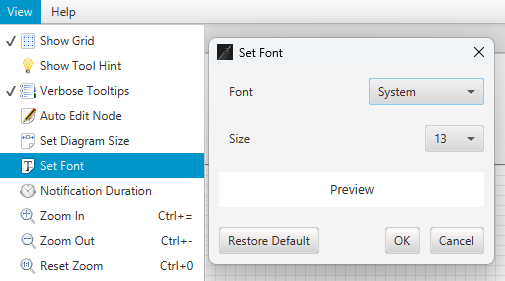
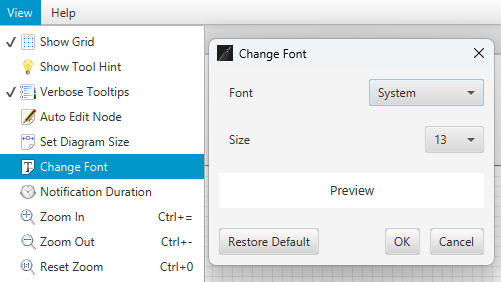
[#531]
Remove unused imports, add javadoc comments, modify tip image and
dialogue.

diff --git a/src/org/jetuml/rendering/FontMetrics.java b/src/org/jetuml/rendering/FontMetrics.java
@@ -23,11 +23,8 @@ package org.jetuml.rendering;
 import org.jetuml.geom.Dimension;
 
 import javafx.geometry.Bounds;
-import javafx.scene.shape.Rectangle;
-import javafx.scene.shape.Shape;
 import javafx.scene.text.Font;
 import javafx.scene.text.Text;
-import javafx.scene.text.TextBoundsType;
 
 /**
  * A utility class to determine various font position metrics
@@ -56,7 +53,8 @@ public class FontMetrics
 {
 	public static final int DEFAULT_FONT_SIZE = 12;
 	public static final String DEFAULT_FONT_NAME = "System";
-	private static final String BLANK = "";
+	private static final String SINGLE_LINED_TEXT = "One";
+	private static final String TWO_LINED_TEXT = "One\nTwo";
 	private Text aTextNode;
 
 	/**
@@ -74,8 +72,8 @@ public class FontMetrics
 
 	/**
 	 * Returns the dimension of a given string.
-	 * For the fonts available in JetUML, the dimension includes the leading space in the height,
-	 * but a tight bound on the width. Note that this behavior is not consistent for all fonts.
+	 * For the fonts supported in JetUML, the dimension includes the leading space in the height.
+	 * However, this behavior is not consistent across all fonts.
 	 * 
 	 * @param pString The string to which the bounds pertain.
 	 * @return The dimension of the string
@@ -86,39 +84,37 @@ public class FontMetrics
 		
 		aTextNode.setText(pString);
 		Bounds bounds = aTextNode.getLayoutBounds();
-		aTextNode.setText(BLANK);
 		return new Dimension((int) Math.round(bounds.getWidth()), (int) Math.round(bounds.getHeight()));
 	}
 	
 	/**
-	 * Returns the height of a string including the leading space.
+	 * Returns the distance between the top and bottom of a single lined text.
 	 * 
 	 * @param pString The string. 
-	 * @return The height of the string.
+	 * @return The height of a single lined text.
 	 * @pre pString != null
 	 */
 	public int getHeight(String pString)
 	{
 		assert pString != null;
 		
-		aTextNode.setText("Thy\nThy");
-		double height1 = aTextNode.getLayoutBounds().getHeight();
-		aTextNode.setText("Thy");
-		double height2 = aTextNode.getLayoutBounds().getHeight();
-		return (int) Math.round(height1 - height2);
+		aTextNode.setText(TWO_LINED_TEXT);
+		double twoLineHeight = aTextNode.getLayoutBounds().getHeight();
+		aTextNode.setText(SINGLE_LINED_TEXT);
+		double singleLineHeight = aTextNode.getLayoutBounds().getHeight();
+		return (int) Math.round(twoLineHeight - singleLineHeight);
 	}
 	
+	/**
+	 * Returns the distance between the top and baseline of a single lined text.
+	 * 
+	 * @param pBold Whether the font is bold.
+	 * @param pItalic whether the font is italic.
+	 * @return the distance above the baseline for a single lined text.
+	 */
 	public int getBaselineOffset()
 	{
+		aTextNode.setText(SINGLE_LINED_TEXT);
 		return (int) Math.round(aTextNode.getBaselineOffset());
-	}
-	
-	public static void main(String[] args)
-	{
-		System.out.println(Font.getFamilies());
-		System.out.println(Font.getFontNames("Arial"));
-		System.out.println(Font.getFontNames());
-		Font f1 = Font.font("Monospaced");
-		System.out.println(f1.getName());
 	}
 } 

diff --git a/src/org/jetuml/rendering/CanvasFont.java b/src/org/jetuml/rendering/CanvasFont.java
@@ -98,29 +98,43 @@ public final class CanvasFont implements IntegerPreferenceChangeHandler, StringP
 
 	/**
 	 * Returns the dimension of a given string.
+	 * 
 	 * @param pString The string to which the bounds pertain.
 	 * @param pBold Whether the text is in bold.
 	 * @param pItalic Whether the text is in italic.
 	 * @return The dimension of the string.
+	 * @pre pString != null
 	 */
 	public Dimension getDimension(String pString, boolean pBold, boolean pItalic)
 	{
+		assert pString != null;
+		
 		return getFontMetrics(pBold, pItalic).getDimension(pString);
 	}
 	
 	/**
-	 * Returns the height of a string including the leading space.
+	 * Returns the distance between the top and bottom of a single lined text.
 	 * 
 	 * @param pString The string.
 	 * @param pBold Whether the text is in bold.
 	 * @param pItalic Whether the text is in italic.
 	 * @return The height of the string.
+	 * @pre pString != null
 	 */
 	public int getHeight(String pString, boolean pBold, boolean pItalic)
 	{
+		assert pString != null;
+		
 		return getFontMetrics(pBold, pItalic).getHeight(pString);
 	}
 	
+	/**
+	 * Returns the distance between the top and baseline of a single lined text.
+	 * 
+	 * @param pBold Whether the font is bold.
+	 * @param pItalic whether the font is italic.
+	 * @return the distance above the baseline for a single lined text.
+	 */
 	public int getBaselineOffset(boolean pBold, boolean pItalic)
 	{
 		return getFontMetrics(pBold, pItalic).getBaselineOffset();
@@ -137,9 +151,9 @@ public final class CanvasFont implements IntegerPreferenceChangeHandler, StringP
 	}
 	
 	@Override
-	public void stringPreferenceChanged(StringPreference pPreference) 
+	public void stringPreferenceChanged(StringPreference pPreference)
 	{
-		if ( pPreference == StringPreference.fontName && !aFont.getFamily().equals(UserPreferences.instance().getString(pPreference)) )
+		if( pPreference == StringPreference.fontName && !aFont.getFamily().equals(UserPreferences.instance().getString(pPreference)) )
 		{
 			refreshAttributes();
 		}

diff --git a/src/org/jetuml/gui/FontDialog.java b/src/org/jetuml/gui/FontDialog.java
@@ -40,20 +40,18 @@ import javafx.scene.Scene;
 import javafx.scene.control.Button;
 import javafx.scene.control.ComboBox;
 import javafx.scene.control.Label;
-import javafx.scene.effect.InnerShadow;
 import javafx.scene.image.Image;
 import javafx.scene.input.KeyCode;
 import javafx.scene.input.KeyEvent;
 import javafx.scene.layout.GridPane;
 import javafx.scene.layout.HBox;
-import javafx.scene.paint.Color;
 import javafx.scene.text.Font;
 import javafx.stage.Modality;
 import javafx.stage.Stage;
 
 /**
- * A modal dialog that allows users to change font
- * size of diagrams.
+ * A modal dialog that allows users to change the font
+ * and font size of text in diagrams.
  */
 public class FontDialog 
 {
@@ -66,7 +64,6 @@ public class FontDialog
 	private static final ArrayList<String> FONT_FAMILIES = new ArrayList<>(Arrays.asList("System", "SansSerif", "Serif", "Monospaced"));
 	private static final ArrayList<Integer> FONT_SIZES = new ArrayList<>(
 			Arrays.asList(8, 9, 10, 11, 12, 13, 14, 15, 16, 17, 18, 19, 20, 21, 22, 23, 24));
-	// The height and width of the preview depends on the bounds of its text.
 	private static final int PREVIEW_HEIGHT = 35;
 	private static final int PREVIEW_WIDTH = 110;
 	

diff --git a/src/org/jetuml/rendering/nodes/TypeNodeRenderer.java b/src/org/jetuml/rendering/nodes/TypeNodeRenderer.java
@@ -47,6 +47,7 @@ public class TypeNodeRenderer extends AbstractNodeRenderer
 	protected static final int DEFAULT_WIDTH = 100;
 	protected static final int DEFAULT_HEIGHT = 60;
 	protected static final int TOP_INCREMENT = 20;
+	private static final int TOP_MARGIN = 5;
 	private static final StringRenderer NAME_VIEWER = StringRenderer.get(Alignment.CENTER_CENTER, TextDecoration.BOLD, TextDecoration.PADDED);
 	private static final StringRenderer ITALIC_NAME_VIEWER = StringRenderer.get(
 			Alignment.CENTER_CENTER, TextDecoration.BOLD, TextDecoration.ITALIC, TextDecoration.PADDED);
@@ -124,7 +125,7 @@ public class TypeNodeRenderer extends AbstractNodeRenderer
 	{
 		String attributes = pNode.getAttributes();
 		String[] attributesByLine = attributes.split("\n");
-		int lineSpacing = 5;
+		int lineSpacing = TOP_MARGIN;
 		
 		for( String attribute : attributesByLine )
 		{
@@ -146,7 +147,7 @@ public class TypeNodeRenderer extends AbstractNodeRenderer
 	{
 		String methods = pNode.getMethods();
 		String[] methodsByLine = methods.split("\n");
-		int lineSpacing = 5;
+		int lineSpacing = TOP_MARGIN;
 		
 		for( String method : methodsByLine )
 		{

diff --git a/src/org/jetuml/rendering/StringRenderer.java b/src/org/jetuml/rendering/StringRenderer.java
@@ -156,7 +156,7 @@ public final class StringRenderer
 	}
 	
 	/**
-	 * Gets the height of a string including the leading space.
+	 * Returns the distance between the top and bottom of a single lined text.
 	 * 
 	 * @param pString The string.
 	 * @return The height of the string.
@@ -279,7 +279,7 @@ public final class StringRenderer
 			}
 			else if( aAlign.isVerticallyCentered() )
 			{
-				yOffset = baselineOffset/2;
+				yOffset = baselineOffset/2 + 1;
 			}
 			RenderingUtils.drawLine(pGraphics, textX-xOffset, textY+yOffset, 
 					textX-xOffset+dimension.width(), textY+yOffset, LineStyle.SOLID);

diff --git a/src/org/jetuml/application/UserPreferences.java b/src/org/jetuml/application/UserPreferences.java
@@ -20,8 +20,8 @@
  *******************************************************************************/
 package org.jetuml.application;
 
-import static org.jetuml.rendering.FontMetrics.DEFAULT_FONT_SIZE;
 import static org.jetuml.rendering.FontMetrics.DEFAULT_FONT_NAME;
+import static org.jetuml.rendering.FontMetrics.DEFAULT_FONT_SIZE;
 
 import java.util.ArrayList;
 import java.util.EnumMap;

diff --git a/src/org/jetuml/rendering/RenderingUtils.java b/src/org/jetuml/rendering/RenderingUtils.java
@@ -27,7 +27,6 @@ import javafx.scene.effect.DropShadow;
 import javafx.scene.paint.Color;
 import javafx.scene.paint.Paint;
 import javafx.scene.text.Font;
-import javafx.scene.text.FontSmoothingType;
 
 /**
  * A collection of utility methods to draw shapes on the canvas.

diff --git a/src/org/jetuml/gui/DiagramCanvas.java b/src/org/jetuml/gui/DiagramCanvas.java
@@ -371,7 +371,7 @@ StringPreferenceChangeHandler
 	@Override
 	public void stringPreferenceChanged(StringPreference pPreference) 
 	{
-		if ( pPreference == StringPreference.fontName )
+		if( pPreference == StringPreference.fontName )
 		{
 			paintPanel();
 		}
